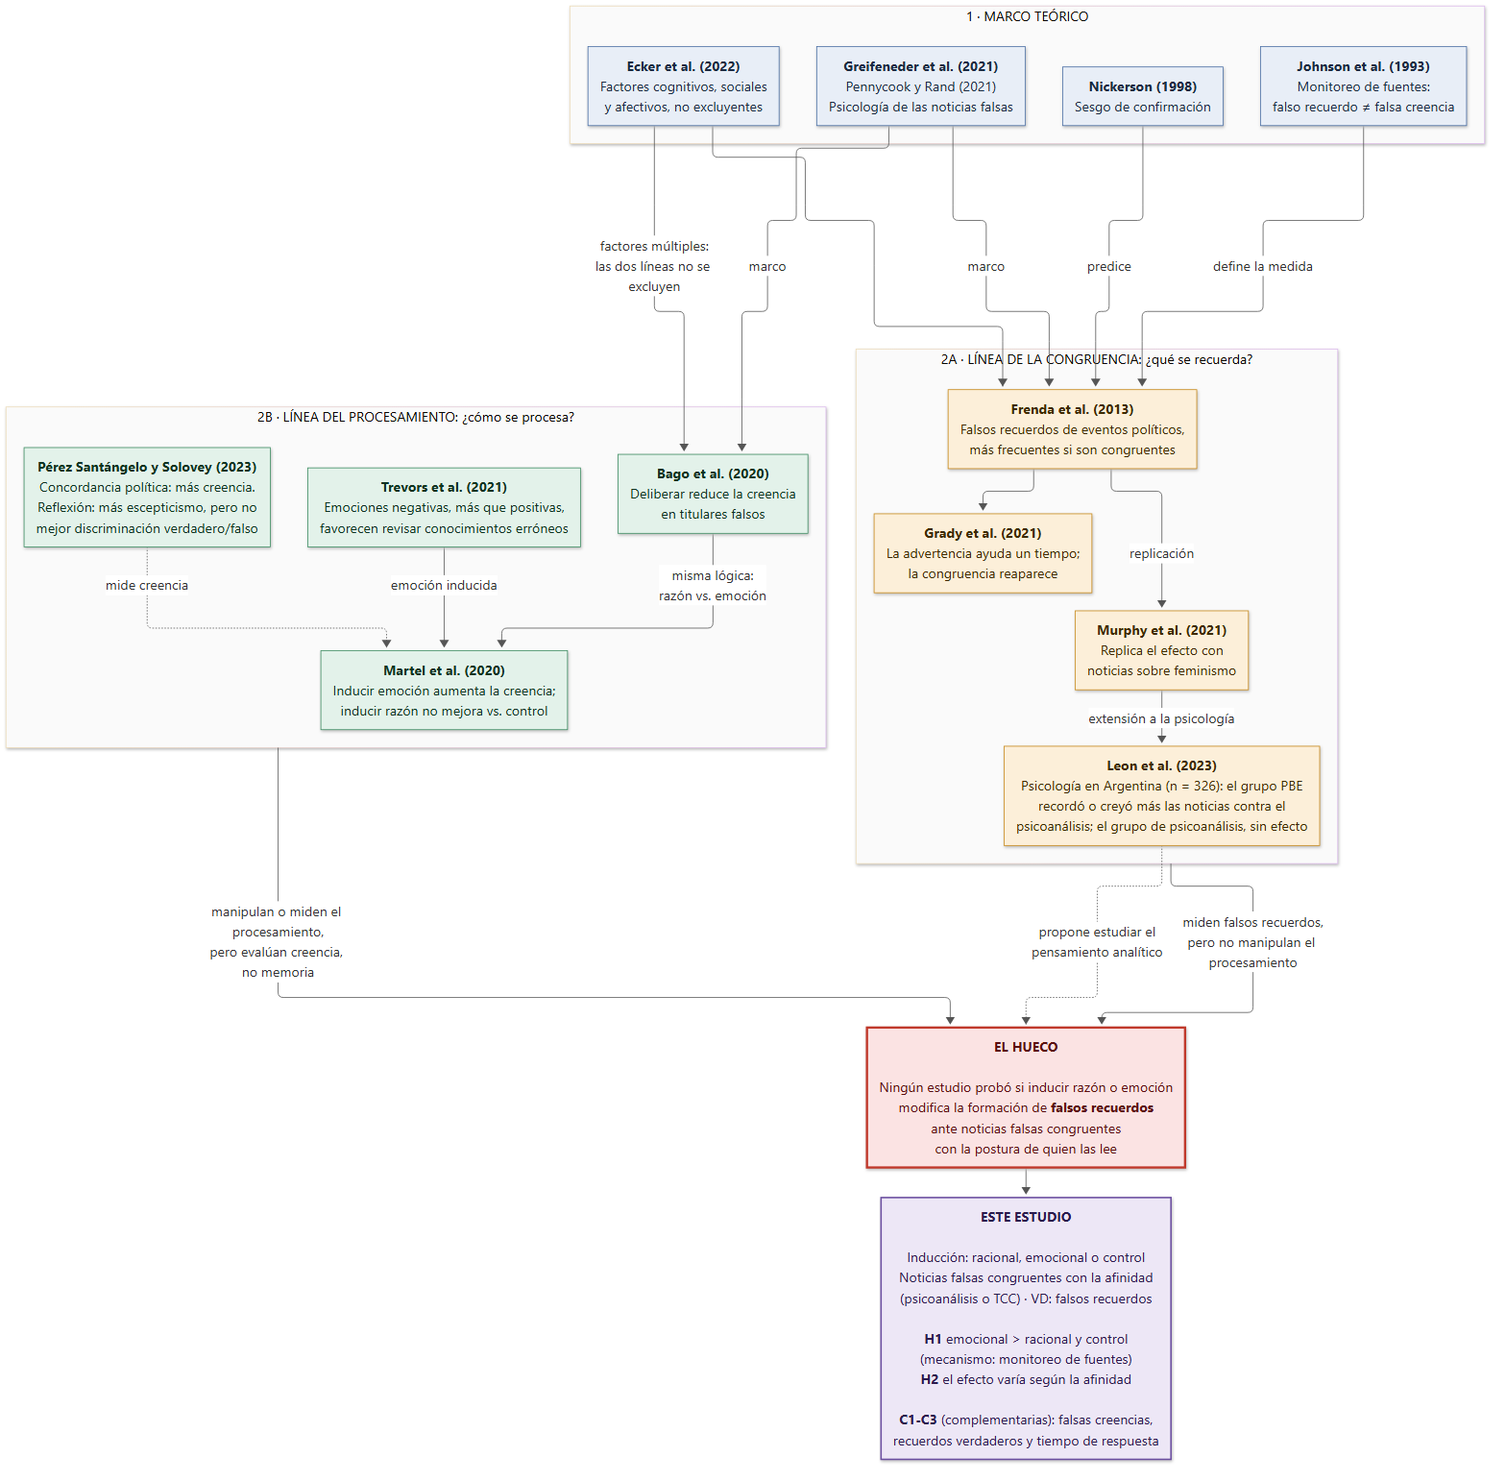
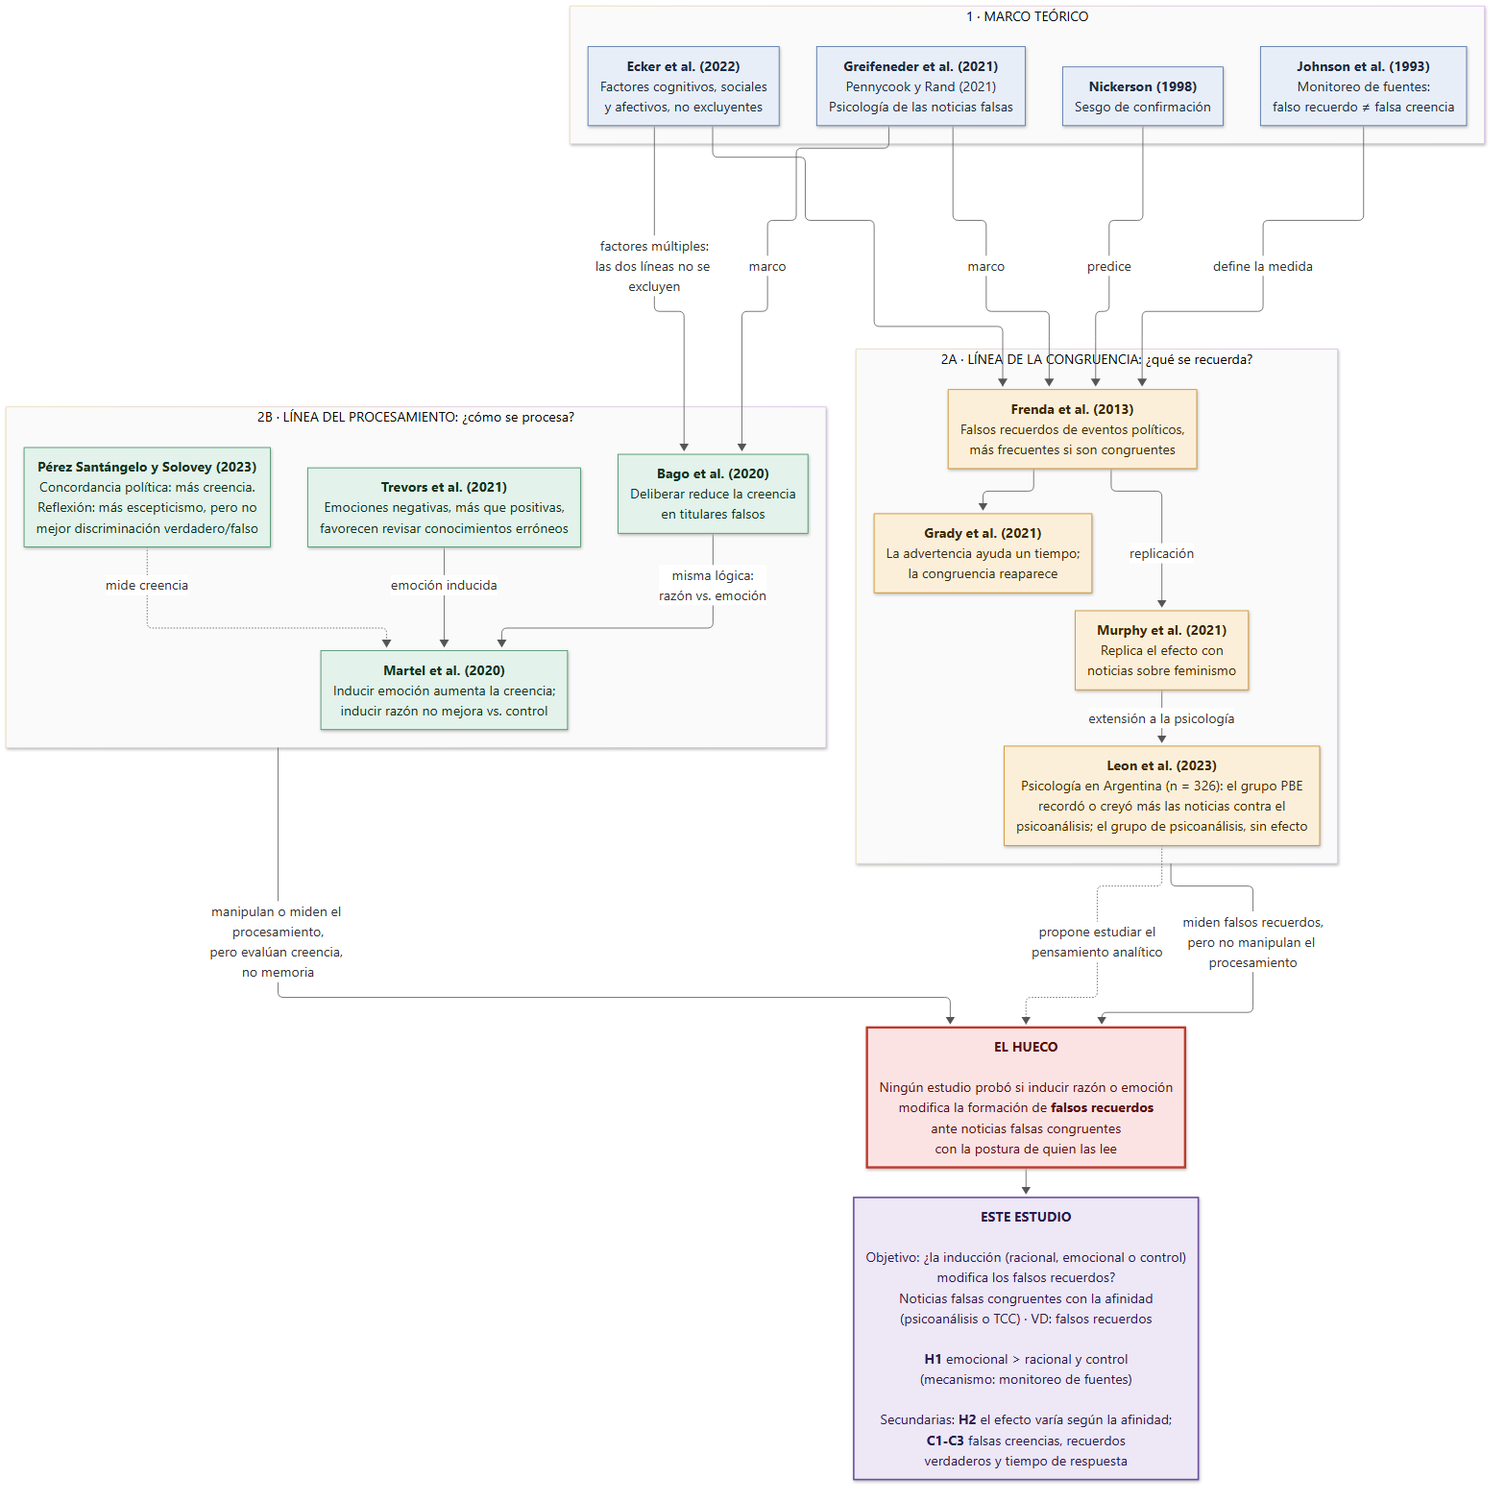
Psicología Experimental: objetivos e hipótesis alineados con el objetivo general
El objetivo general es verificar si la inducción previa a un modo de
procesamiento (racional, emocional o control) modifica la frecuencia de falsos
recuerdos ante noticias falsas congruentes con la afinidad terapéutica.

- Objetivos específicos 1-3 derivan de ese objetivo: describir por grupo de
  inducción, comparar entre grupos y verificar la eficacia de la manipulación
  (antes objetivo 6).
- Objetivos secundarios 4-6: afinidad terapéutica, falsas creencias y recuerdos
  verdaderos, tiempo de respuesta.
- Hipótesis general y H1 como principal; H2 y C1-C3 como secundarias, cada una
  con su objetivo.
- Plan de análisis y estructura de Resultados siguen la misma numeración.
- Introducción del artículo (.md) y caja "Este estudio" del diagrama con la
  misma jerarquía.

diff --git a/2do Año/Psicología Experimental/6_Entregables/Inv_P2_Informe.md b/2do Año/Psicología Experimental/6_Entregables/Inv_P2_Informe.md
@@ -91,32 +91,34 @@ Hasta donde alcanza la bibliografía revisada, entonces, no se ha puesto a prueb
 
 **Pregunta de investigación.** ¿Cuál es el efecto de la inducción al pensamiento racional y emocional sobre la formación de falsos recuerdos tras la exposición a *fake news* congruentes con la afinidad terapéutica, en personas de 18 a 65 años, estudiantes o graduadas de Psicología, que residen en la Ciudad Autónoma de Buenos Aires o en la provincia de Buenos Aires?
 
-**Objetivo general.** Evaluar si la inducción previa a modos de procesamiento cognitivo diferenciados (racional, emocional y control) modifica la frecuencia de formación de falsos recuerdos ante la lectura de *fake news* congruentes con la afinidad terapéutica, en personas de 18 a 65 años, estudiantes o graduadas de Psicología, que residen en la Ciudad Autónoma de Buenos Aires o en la provincia de Buenos Aires.
+**Objetivo general.** Verificar si la inducción previa a un modo de procesamiento (racional, emocional o control) modifica la frecuencia de falsos recuerdos ante la lectura de *fake news* congruentes con la afinidad terapéutica, en personas de 18 a 65 años, estudiantes o graduadas de Psicología, que residen en la Ciudad Autónoma de Buenos Aires o en la provincia de Buenos Aires.
 
-**Objetivos específicos**
+**Objetivos específicos**, que desarrollan el objetivo general:
 
-1. Describir la frecuencia de formación de falsos recuerdos ante la lectura de *fake news* congruentes con la afinidad terapéutica previa de los participantes.
-2. Comparar la frecuencia de formación de falsos recuerdos entre los participantes sometidos a inducción emocional, inducción racional y los del grupo control.
-3. Explorar si el efecto del tipo de inducción sobre la formación de falsos recuerdos varía según la afinidad terapéutica previa (psicoanálisis o terapia cognitivo-conductual).
+1. Describir la frecuencia de falsos recuerdos ante la lectura de *fake news* congruentes con la afinidad terapéutica en cada grupo de inducción (racional, emocional y control).
+2. Comparar esa frecuencia entre los tres grupos, para determinar si la inducción la modifica y en qué sentido.
+3. Verificar la eficacia de la manipulación, condición para atribuir las diferencias entre grupos a la inducción: describir, en los grupos racional y emocional, qué proporción de participantes reporta la inducción que se le asignó, y comparar entre los tres grupos el uso autoinformado de emoción y de razón.
 
-Objetivos complementarios, que se derivan de las variables que la plataforma registra:
+**Objetivos secundarios**, que acompañan al principal y se derivan de las variables que la plataforma registra:
 
-4. Describir y comparar entre grupos la frecuencia de falsas creencias y de recuerdos verdaderos.
-5. Analizar si el tiempo de respuesta, tomado como indicador del esfuerzo cognitivo, difiere entre inducciones y se relaciona con la frecuencia de falsos recuerdos.
-6. Verificar la eficacia de la manipulación: describir, en los grupos racional y emocional, qué proporción de participantes reporta la inducción que se le asignó, y comparar entre los tres grupos el uso autoinformado de emoción y de razón.
+4. Explorar si el efecto del tipo de inducción sobre la formación de falsos recuerdos varía según la afinidad terapéutica previa (psicoanálisis o terapia cognitivo-conductual).
+5. Describir y comparar entre grupos la frecuencia de falsas creencias y de recuerdos verdaderos.
+6. Analizar si el tiempo de respuesta, tomado como indicador del esfuerzo cognitivo, difiere entre inducciones y se relaciona con la frecuencia de falsos recuerdos.
 
-> **Sobre la congruencia.** Todas las noticias falsas que ve cada participante son congruentes con su afinidad terapéutica; la congruencia es entonces una **constante del diseño** y no una variable. Por eso este estudio *no* tiene como objetivo estimar el efecto de la congruencia ni su interacción con la inducción. Lo que sí varía entre participantes es la afinidad terapéutica, y el objetivo 3 la analiza.
+> **Sobre la congruencia.** Todas las noticias falsas que ve cada participante son congruentes con su afinidad terapéutica; la congruencia es entonces una **constante del diseño** y no una variable. Por eso este estudio *no* tiene como objetivo estimar el efecto de la congruencia ni su interacción con la inducción. Lo que sí varía entre participantes es la afinidad terapéutica, y el objetivo 4 la analiza.
 
-**Hipótesis**
+**Hipótesis general.** La inducción previa a un modo de procesamiento modifica la frecuencia de falsos recuerdos ante *fake news* congruentes con la afinidad terapéutica.
 
-- **H1.** Los participantes sometidos a inducción **emocional** presentarán una mayor frecuencia de falsos recuerdos ante *fake news* que los sometidos a inducción **racional** y que los del **grupo control**.
-- **H2.** El efecto del tipo de inducción sobre la formación de falsos recuerdos **variará según la afinidad terapéutica previa** de los participantes.
+**Hipótesis principal** (objetivos 1 y 2)
 
-**Hipótesis complementarias**
+- **H1.** Los participantes sometidos a inducción **emocional** presentarán una mayor frecuencia de falsos recuerdos ante *fake news* que los sometidos a inducción **racional** y que los del **grupo control**. Apoyarse en la emoción favorece la creencia en noticias falsas (Martel et al., 2020), y un juicio rápido y heurístico sobre el origen de la familiaridad con una noticia favorece atribuirla a una exposición previa que no existió (Johnson et al., 1993).
 
-- **C1.** El patrón de H1 se repetirá en las falsas creencias: más falsas creencias en el grupo Emoción que en los grupos Razón y Control (Martel et al., 2020).
-- **C2.** Los recuerdos verdaderos no diferirán entre grupos: la inducción afectaría la aceptación de lo falso pero no la de lo verdadero (Bago et al., 2020).
-- **C3.** Los participantes del grupo Emoción responderán más rápido que los del grupo Razón, y un menor tiempo de respuesta se asociará con más falsos recuerdos. La lógica es la del monitoreo de fuentes: un juicio rápido y heurístico sobre el origen de la familiaridad con una noticia favorece atribuirla a una exposición previa que no existió (Johnson et al., 1993); la deliberación, en cambio, corrige los errores intuitivos (Bago et al., 2020).
+**Hipótesis secundarias**, que acompañan a H1 y corresponden a los objetivos 4 a 6
+
+- **H2** (objetivo 4). El efecto del tipo de inducción sobre la formación de falsos recuerdos **variará según la afinidad terapéutica previa** de los participantes, dado que Leon et al. (2023) observaron el efecto de la congruencia en el grupo PBE y no en el de psicoanálisis.
+- **C1** (objetivo 5, complementaria). El patrón de H1 se repetirá en las falsas creencias: más falsas creencias en el grupo Emoción que en los grupos Razón y Control (Martel et al., 2020).
+- **C2** (objetivo 5, complementaria). Los recuerdos verdaderos no diferirán entre grupos: la inducción afectaría la aceptación de lo falso pero no la de lo verdadero (Bago et al., 2020).
+- **C3** (objetivo 6, complementaria). Los participantes del grupo Emoción responderán más rápido que los del grupo Razón, y un menor tiempo de respuesta se asociará con más falsos recuerdos. La lógica es la del monitoreo de fuentes: un juicio rápido y heurístico sobre el origen de la familiaridad con una noticia favorece atribuirla a una exposición previa que no existió (Johnson et al., 1993); la deliberación, en cambio, corrige los errores intuitivos (Bago et al., 2020).
 
 ---
 
@@ -219,13 +221,13 @@ La participación fue voluntaria, previa lectura y aceptación del consentimient
 
 Los datos se exportan de la base de datos en una tabla con una fila por participante, restringida a los participantes incluidos que completaron la tarea, con edad, género, universidad (con las variantes de escritura unificadas), grupo de inducción, afinidad terapéutica, respuestas del control de la manipulación, recuentos de falsos recuerdos, falsas creencias y recuerdos verdaderos, y tiempo de respuesta promedio en segundos.
 
-- **Descriptivos.** Primero, la descripción de la muestra, con el porcentaje de cada afinidad dentro de cada grupo. Luego, medias, desviaciones estándar y proporciones de cada variable por grupo de inducción y por afinidad.
+- **Descriptivos (objetivo 1).** Primero, la descripción de la muestra, con el porcentaje de cada afinidad dentro de cada grupo. Luego, medias, desviaciones estándar y proporciones de cada variable por grupo de inducción y por afinidad.
 - **Comparación entre grupos.** Para cada variable se comprueban primero los supuestos: normalidad en cada grupo (prueba de Shapiro-Wilk) y homogeneidad de varianzas (prueba de Levene centrada en la mediana). Si se cumplen ambos, se usará ANOVA de un factor con comparaciones de Tukey-Kramer; si se cumple la normalidad pero no la homogeneidad, ANOVA de Welch con comparaciones de Games-Howell; si algún grupo no se distribuye normalmente, prueba de Kruskal-Wallis con comparaciones de Dunn corregidas por Holm. Se fija α = .05 y se informan tamaños del efecto (η² en el ANOVA, ε² en Kruskal-Wallis).
-- **Control de la manipulación.** Comparación entre grupos del uso autoinformado de emoción y de razón con ese procedimiento (se espera más uso de emoción en el grupo emocional y más uso de razón en el racional), y porcentaje de aciertos en la pregunta de elección forzada (objetivo 6). Quienes reportan una inducción distinta de la asignada se cuentan y se describen por grupo, pero **no se excluyen**: el análisis principal es por grupo asignado.
-- **Efecto de la inducción (H1, C1, C2).** Comparación entre grupos de los recuentos de falsos recuerdos (0-8), falsas creencias (0-8) y recuerdos verdaderos (0-12). Para H1 y C1, las comparaciones de interés son las del grupo emocional contra el racional y contra el control.
-- **Variación según afinidad (H2).** Interacción entre grupo de inducción y afinidad terapéutica.
-- **Tiempo de respuesta (C3).** Comparación entre grupos del tiempo de respuesta promedio y relación entre el tiempo de respuesta y el recuento de falsos recuerdos.
-
+- **Efecto de la inducción sobre los falsos recuerdos (H1; objetivos 1 y 2).** Comparación entre grupos de los recuentos de falsos recuerdos (0-8). Las comparaciones de interés son las del grupo emocional contra el racional y contra el control.
+- **Control de la manipulación (objetivo 3).** Comparación entre grupos del uso autoinformado de emoción y de razón con ese procedimiento (se espera más uso de emoción en el grupo emocional y más uso de razón en el racional), y porcentaje de aciertos en la pregunta de elección forzada (objetivo 3). Quienes reportan una inducción distinta de la asignada se cuentan y se describen por grupo, pero **no se excluyen**: el análisis principal es por grupo asignado.
+- **Variación según afinidad (H2; objetivo 4).** Interacción entre grupo de inducción y afinidad terapéutica.
+- **Falsas creencias y recuerdos verdaderos (C1 y C2; objetivo 5).** Comparación entre grupos de los recuentos de falsas creencias (0-8) y de recuerdos verdaderos (0-12). Para C1, las comparaciones de interés son las del grupo emocional contra el racional y contra el control.
+- **Tiempo de respuesta (C3; objetivo 6).** Comparación entre grupos del tiempo de respuesta promedio y relación entre el tiempo de respuesta y el recuento de falsos recuerdos.
 ---
 
 ## Resultados
@@ -242,11 +244,11 @@ Estructura prevista:
 | Emocional | [ ] | [ ] | [ ] |
 | Control | [ ] | [ ] | [ ] |
 
-2. Control de la manipulación.
-3. Falsos recuerdos por grupo de inducción (tabla de medias y *DE*, supuestos, prueba elegida, comparaciones entre pares y tamaño del efecto).
-4. Variación del efecto según la afinidad terapéutica.
-5. Falsas creencias y recuerdos verdaderos por grupo.
-6. Tiempo de respuesta por grupo y su relación con los falsos recuerdos.
+2. Falsos recuerdos por grupo de inducción (objetivos 1 y 2; H1): tabla de medias y *DE*, supuestos, prueba elegida, comparaciones entre pares y tamaño del efecto.
+3. Control de la manipulación (objetivo 3).
+4. Variación del efecto según la afinidad terapéutica (objetivo 4; H2).
+5. Falsas creencias y recuerdos verdaderos por grupo (objetivo 5; C1 y C2).
+6. Tiempo de respuesta por grupo y su relación con los falsos recuerdos (objetivo 6; C3).
 
 ---
 

diff --git a/2do Año/Psicología Experimental/6_Entregables/Inv_P2_Articulo_Introduccion.md b/2do Año/Psicología Experimental/6_Entregables/Inv_P2_Articulo_Introduccion.md
@@ -24,6 +24,6 @@ Sin embargo, los estudios de falsos recuerdos midieron el efecto de la congruenc
 
 El problema es relevante para la formación y el ejercicio de la psicología. En Argentina la disciplina atraviesa un debate polarizado entre corrientes: el currículo de la mayoría de las universidades públicas se orienta en un 49,8 % al psicoanálisis y solo en un 4,9 % a la terapia cognitivo-conductual (TCC) (Fierro, 2015, como se citó en Leon et al., 2023), y su práctica tiene implicancias importantes para la salud y la economía. Que la desinformación pueda generar falsos recuerdos en quienes estudian o ejercen la psicología puede incidir en las decisiones de la disciplina (Leon et al., 2023). Además, un debate con dos bandos identificables permite presentar a cada participante noticias falsas congruentes con su afinidad terapéutica, y el estudio permite saber si un modo de procesamiento que puede inducirse protege o expone a la formación de falsos recuerdos.
 
-Por ello, el objetivo general es evaluar si la inducción previa a un modo de procesamiento (racional, emocional o control) modifica la frecuencia de falsos recuerdos ante la lectura de noticias falsas congruentes con la afinidad terapéutica, en estudiantes y graduados de Psicología de 18 a 65 años que residen en la Ciudad Autónoma de Buenos Aires o en la provincia de Buenos Aires. Los objetivos específicos son (1) describir la frecuencia de falsos recuerdos ante noticias falsas congruentes con la afinidad terapéutica de los participantes, (2) comparar esa frecuencia entre los participantes sometidos a inducción emocional, a inducción racional y al grupo control, y (3) explorar si el efecto del tipo de inducción varía según la afinidad terapéutica previa (psicoanálisis o TCC). Además, se plantean tres objetivos complementarios: (4) describir y comparar entre grupos la frecuencia de falsas creencias y de recuerdos verdaderos; (5) analizar si el tiempo de respuesta, tomado como indicador del esfuerzo cognitivo, difiere entre inducciones y se relaciona con la frecuencia de falsos recuerdos; y (6) verificar la eficacia de la manipulación, es decir, qué proporción de participantes reporta la inducción que se le asignó y cuánto usó la emoción y la razón en cada grupo.
+Por ello, el objetivo general es verificar si la inducción previa a un modo de procesamiento (racional, emocional o control) modifica la frecuencia de falsos recuerdos ante noticias falsas congruentes con la afinidad terapéutica, en estudiantes y graduados de Psicología de 18 a 65 años que residen en la Ciudad Autónoma de Buenos Aires o en la provincia de Buenos Aires. Para alcanzarlo, los objetivos específicos son (1) describir la frecuencia de falsos recuerdos ante noticias falsas congruentes en cada grupo de inducción (racional, emocional y control); (2) comparar esa frecuencia entre los tres grupos, para determinar si la inducción la modifica y en qué sentido; y (3) verificar la eficacia de la manipulación, es decir, que los participantes de cada grupo procesaron las noticias del modo inducido, condición para atribuir las diferencias entre grupos a la inducción. Como objetivos secundarios, que acompañan al principal, se plantean (4) explorar si el efecto de la inducción varía según la afinidad terapéutica previa (psicoanálisis o TCC); (5) describir y comparar entre grupos la frecuencia de falsas creencias y de recuerdos verdaderos; y (6) analizar si el tiempo de respuesta, tomado como indicador del esfuerzo cognitivo, difiere entre inducciones y se relaciona con la frecuencia de falsos recuerdos.
 
-De los antecedentes se desprenden dos hipótesis principales. **H1:** los participantes sometidos a inducción emocional presentarán una mayor frecuencia de falsos recuerdos que los sometidos a inducción racional y que los del grupo control, porque apoyarse en la emoción favorece la creencia en noticias falsas (Martel et al., 2020) y un juicio rápido y heurístico sobre el origen de la familiaridad con una noticia favorece atribuirla a una exposición previa que no existió (Johnson et al., 1993). **H2:** el efecto del tipo de inducción sobre la formación de falsos recuerdos variará según la afinidad terapéutica previa de los participantes, dado que Leon et al. (2023) observaron el efecto de la congruencia en el grupo PBE y no en el de psicoanálisis. Se plantean además tres hipótesis complementarias, que corresponden a los objetivos 4 y 5 y se identifican como C1, C2 y C3. **C1:** el patrón de H1 se repetirá en las falsas creencias, es decir, habrá más falsas creencias en el grupo emocional que en el racional y en el control (Martel et al., 2020). **C2:** los recuerdos verdaderos no diferirán entre grupos, porque la inducción afectaría la aceptación de lo falso pero no la de lo verdadero (Bago et al., 2020). **C3:** el grupo emocional responderá más rápido que el racional, y un menor tiempo de respuesta se asociará con más falsos recuerdos, ya que la deliberación corrige los errores intuitivos (Bago et al., 2020).
+De los antecedentes se desprende la hipótesis general de que la inducción previa a un modo de procesamiento modifica la frecuencia de falsos recuerdos ante noticias falsas congruentes. En concreto, **H1:** los participantes sometidos a inducción emocional presentarán una mayor frecuencia de falsos recuerdos que los sometidos a inducción racional y que los del grupo control, porque apoyarse en la emoción favorece la creencia en noticias falsas (Martel et al., 2020) y un juicio rápido y heurístico sobre el origen de la familiaridad con una noticia favorece atribuirla a una exposición previa que no existió (Johnson et al., 1993). Acompañan a H1 cuatro hipótesis secundarias, que corresponden a los objetivos 4 a 6. **H2** (objetivo 4): el efecto del tipo de inducción sobre los falsos recuerdos variará según la afinidad terapéutica previa, dado que Leon et al. (2023) observaron el efecto de la congruencia en el grupo PBE y no en el de psicoanálisis. **C1** y **C2** (objetivo 5), complementarias: el patrón de H1 se repetirá en las falsas creencias, con más falsas creencias en el grupo emocional que en el racional y en el control (Martel et al., 2020), y los recuerdos verdaderos no diferirán entre grupos, porque la inducción afectaría la aceptación de lo falso pero no la de lo verdadero (Bago et al., 2020). **C3** (objetivo 6), complementaria: el grupo emocional responderá más rápido que el racional, y un menor tiempo de respuesta se asociará con más falsos recuerdos, ya que la deliberación corrige los errores intuitivos (Bago et al., 2020).
